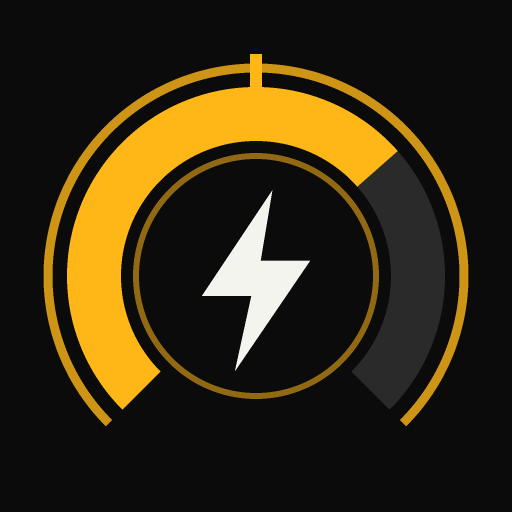
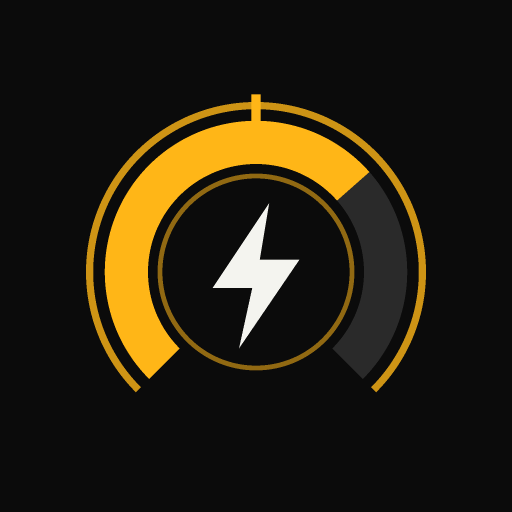
v1.16: icone della schermata home più piccole, non vengono più tagliate

Changed region(s): [[0.0625, 0.0938, 0.9375, 0.8438]]

diff --git a/sw.js b/sw.js
@@ -1,7 +1,7 @@
 // Service worker: app offline, aggiornamento in background (stale-while-revalidate)
 // Cambiando VERSION (insieme ad APP_VERSION in index.html) i telefoni scaricano tutto di nuovo.
 // Funziona solo in HTTPS (GitHub Pages): servita dalla scheda in HTTP la pagina non lo registra.
-const VERSION = '1.15';
+const VERSION = '1.16';
 const CACHE = 'mybattery-v' + VERSION;
 const ASSETS = [
   './',

diff --git a/index.html b/index.html
@@ -1176,7 +1176,7 @@ footer{border-top:0;padding-top:0}
 "use strict";
 const API = "/api/status";
 const DAY = 86400;
-const APP_VERSION = "1.15"; // da cambiare insieme a VERSION in sw.js
+const APP_VERSION = "1.16"; // da cambiare insieme a VERSION in sw.js
 
 /* ---------- testi degli avvisi (codici prodotti dal firmware) ---------- */
 const MSG = {
